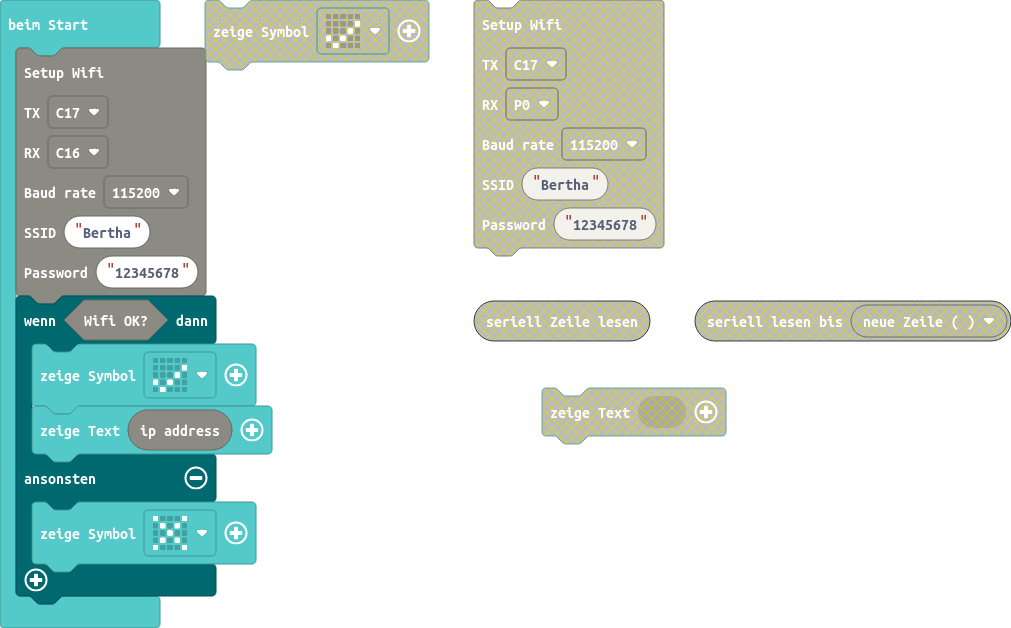
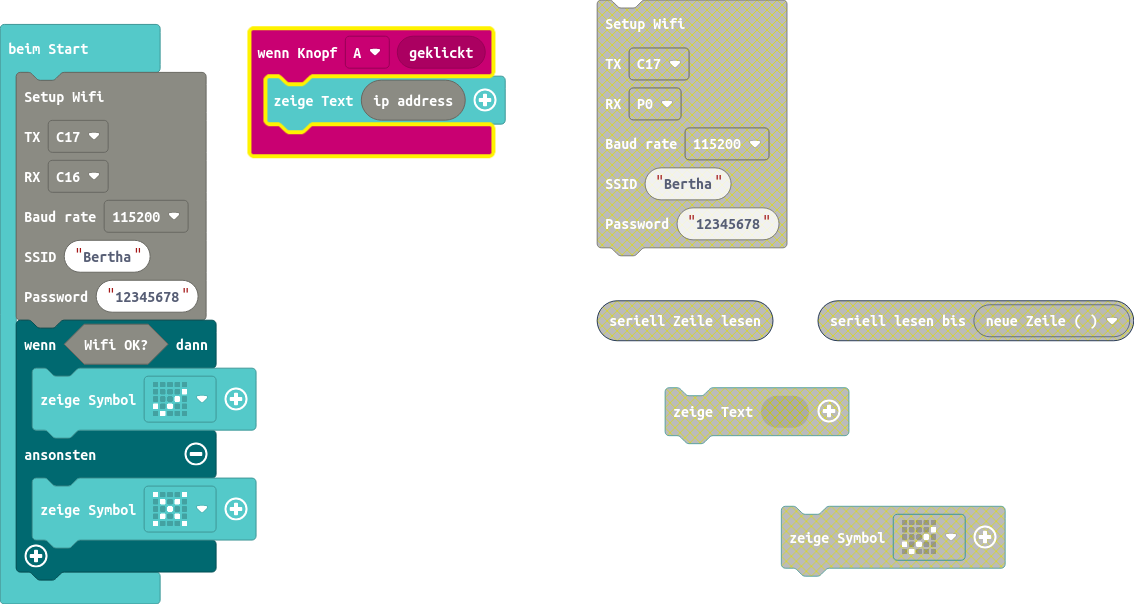
Aktualisiere pxt.json, main.blocks, main.ts, custom.ts

diff --git a/custom.ts b/custom.ts
@@ -9,7 +9,7 @@
  */
 //% weight=55 color=#8B8B83 icon="\uf1eb"
 namespace communication {
- 
+
     let isWifiConnected = false;
  
     /**
@@ -70,17 +70,21 @@ namespace communication {
     //% block="ip address"
     //% group="UART Wifi"
     export function ipaddress() {
-        let buffer = "##"
-        let start = 0
+        let buffer = ""
+        let n = 0
         if (isWifiConnected) {
-//            sendAtCmd("AT")
-//            result = waitAtResponse("OK", "ERROR", "None", 1000)
             sendAtCmd("AT+CIFSR")
-            start = input.runningTime()
+            n = input.runningTime()
 
-            while ((input.runningTime() - start) < 2000) {
+            while ((input.runningTime() - n) < 2000) {
                 buffer += serial.readString()
             }
+
+            n = buffer.indexOf('"')
+            buffer = buffer.substr(n + 1, 100)
+            n = buffer.indexOf('"')
+            buffer = buffer.substr(0, n)
+
         }
         return buffer
     }

diff --git a/main.ts b/main.ts
@@ -1,3 +1,6 @@
+input.onButtonEvent(Button.A, input.buttonEventClick(), function () {
+    basic.showString(communication.ipaddress())
+})
 communication.setupWifi(
 SerialPin.C17,
 SerialPin.C16,
@@ -7,7 +10,6 @@ BaudRate.BaudRate115200,
 )
 if (communication.wifiOK()) {
     basic.showIcon(IconNames.Yes)
-    basic.showString(communication.ipaddress())
 } else {
     basic.showIcon(IconNames.No)
 }
